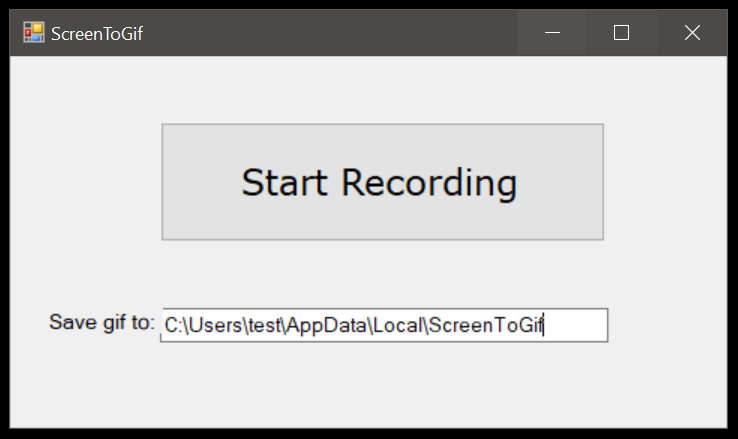
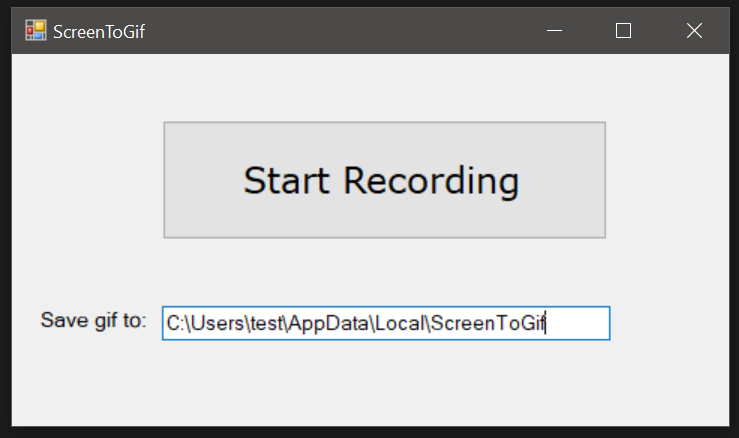
Fix image

diff --git a/ScreenToGif/Main.Designer.cs b/ScreenToGif/Main.Designer.cs
@@ -58,7 +58,7 @@ namespace ScreenToGif
             // 
             this.label1.AutoSize = true;
             this.label1.Font = new System.Drawing.Font("Microsoft Sans Serif", 10F, System.Drawing.FontStyle.Regular, System.Drawing.GraphicsUnit.Point, ((byte)(0)));
-            this.label1.Location = new System.Drawing.Point(34, 258);
+            this.label1.Location = new System.Drawing.Point(24, 258);
             this.label1.Name = "label1";
             this.label1.Size = new System.Drawing.Size(110, 25);
             this.label1.TabIndex = 2;
